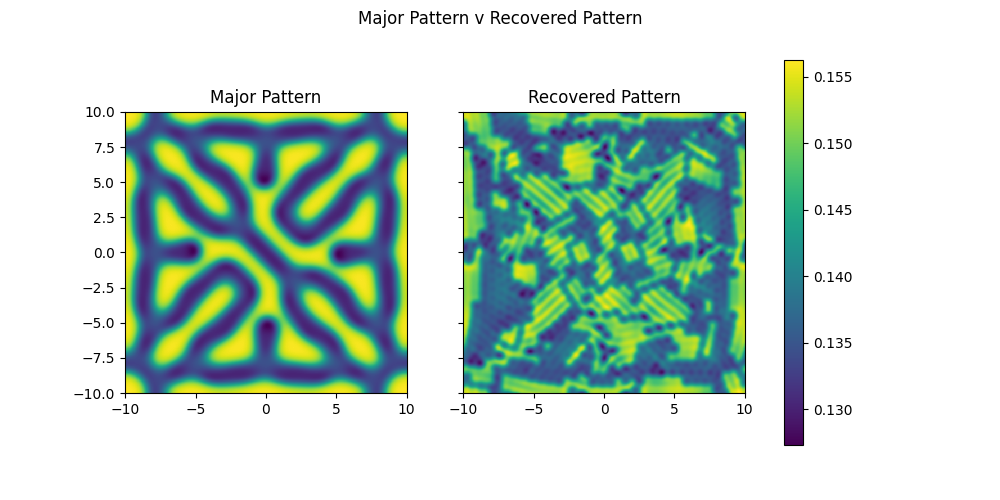
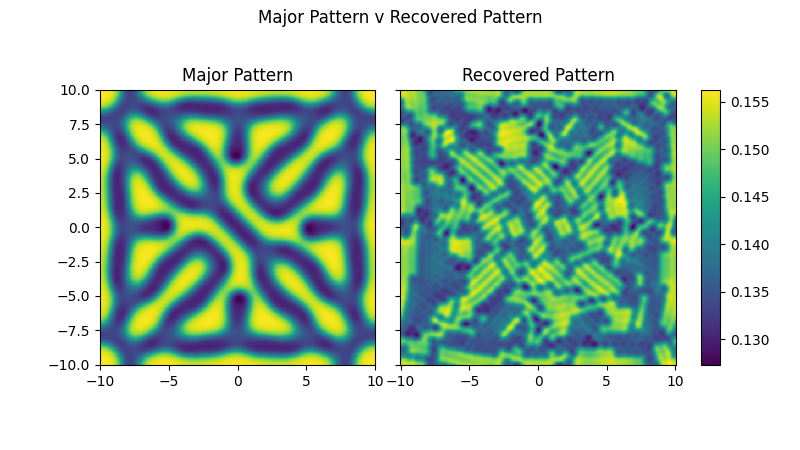
Added a new create_plot function for making plots. used ImageGrid from matplotlib, it's much nicer. Also regenerated a few plots for presentation.

diff --git a/simulator/models/model.py b/simulator/models/model.py
@@ -4,6 +4,8 @@ import pickle
 
 import matplotlib.pyplot as plt
 from matplotlib.animation import FuncAnimation
+from mpl_toolkits.axes_grid1 import ImageGrid
+from matplotlib.colorbar import Colorbar
 
 class Model:
 	def __init__(self, dx=0.04, dy=0.04, dt=1.0, bottom_left=(-5,-5), top_right=(5,5)):
@@ -233,23 +235,35 @@ class Model:
 		if len(plot_funcs) != number_params:
 			plot_funcs = [lambda x:x for x in to_plot]
 		
-		fig, axs = plt.subplots(ncols=number_params)
-		fig.suptitle(f"{to_plot}: 0")
+		# fig, axs = plt.subplots(ncols=number_params, figsize=(8, 4.5))
+		fig = plt.figure(figsize=(8,4.5))
+		axs = ImageGrid(fig, 111,          # as in plt.subplot(111)
+                 nrows_ncols=(1,number_params),
+                 axes_pad=0.25,
+                 share_all=True,
+                 cbar_location="right",
+                 cbar_mode="single",
+                 cbar_size="7%",
+                 cbar_pad=0.15,
+                 )
+		title = ' v '.join(to_plot)
+		fig.suptitle(title)
 
 		zips = zip(axs, plot_funcs, to_plot)
 		
-		# Skip a few because apparently it didn't store the first couple times
-		next(data)
-		next(data)
-		
-		quads = [ax.pcolormesh(x, y, f(next(data)[p])) for ax, f, p in zips]
-		cb = plt.colorbar(quads[0], ax=axs.ravel().tolist(), location='bottom')
-		
+		# # Skip a few because apparently it didn't store the first couple times
+		# next(data)
+		# next(data)
+		curr_frame = next(data)
+		quads = [ax.pcolormesh(x, y, f(curr_frame[p])) for ax, f, p in zips]
+		# cb = plt.colorbar(quads[0], ax=axs.ravel().tolist(), location='bottom')
+		axs[0].cax.cla()
+		cb = Colorbar(axs[0].cax, quads[0])
+		# cb = axs[0].cax.colorbar(quads[0], vmin=0.0, vmax=1.0)
 		[ax.set_box_aspect(1.0) for ax in axs]
-		[ax.set_title(p) for ax,f,p in zips]
 
 		def animate(i):
-			fig.suptitle(f"{to_plot}: {i*frame_skip}")
+			[ax.set_title(f"{p}: {i*frame_skip}") for ax,p in zip(axs, to_plot)]
 			curr_frame = next(data)
 			[q.set_array(f(curr_frame[p])) for q,f,p in zip(quads, plot_funcs, to_plot)]
 			return tuple(quads)
@@ -259,6 +273,45 @@ class Model:
 		anim.save('animations/'+name+'.gif', writer='pillow', fps=30)
 		print("Saved animation: " + name)
 		pass
+	
+	def create_plot(name: str, source: str, to_plot: list, plot_funcs=[]):
+		print(f"Beginning Plotting of '{name}' from final frame of '{source}.dat'")
+		data, x, y = Model.get_last(source)
+		
+		number_params = len(to_plot)
+		if len(plot_funcs) != number_params:
+			plot_funcs = [lambda x:x for x in to_plot]
+		
+		# fig, axs = plt.subplots(ncols=number_params, figsize=(8, 4.5))
+		fig = plt.figure(figsize=(8,4.5))
+		axs = ImageGrid(fig, 111,          # as in plt.subplot(111)
+                 nrows_ncols=(1,number_params),
+                 axes_pad=0.25,
+                 share_all=True,
+                 cbar_location="right",
+                 cbar_mode="single",
+                 cbar_size="7%",
+                 cbar_pad=0.15,
+                 )
+		title = ' v '.join(to_plot)
+		fig.suptitle(title)
+
+		zips = zip(axs, plot_funcs, to_plot)
+		
+		# # Skip a few because apparently it didn't store the first couple times
+		# next(data)
+		# next(data)
+		quads = [ax.pcolormesh(x, y, f(data[p])) for ax, f, p in zips]
+		axs[0].cax.cla()
+		cb = Colorbar(axs[0].cax, quads[0])
+		# cb = axs[0].cax.colorbar(quads[0], vmin=0.0, vmax=1.0)
+		
+		[ax.set_box_aspect(1.0) for ax in axs]
+		[ax.set_title(p) for ax,p in zip(axs, to_plot)]
+		
+		plt.savefig("plots/" + name + ".png")
+		print("Saved figure: " + name)
+		
 	
 	def get_last(source, do_cache=True):
 		"""

diff --git a/mapped-gs.py b/mapped-gs.py
@@ -3,6 +3,8 @@ from simulator.models import *
 import numpy as np
 from scipy import ndimage
 import matplotlib.pyplot as plt
+from mpl_toolkits.axes_grid1 import ImageGrid
+from matplotlib.colorbar import Colorbar
 
 '''
 Creating a regular TP to see what happens
@@ -141,17 +143,15 @@ Also changed the ends points to hopefully get a stronger change.
 # 					   frame_count=1000,
 # 					   frame_skip=10)
 
-# Model.create_animations('mappedgs/parallel_phase_both2', 
-# 					   'data/mappedgs/parallel_phase_fast2',
-# 					   ['Inhibitor', 'Mapped_Feed'],
-# 					   frame_count=1000,
-# 					   frame_skip=10)
+# Model.create_plot('mappedgs/parallel_phase_both2', 
+# 					   'data/mappedgs/parallel_phase_fast2_last',
+# 					   ['Inhibitor', 'Mapped_Feed'],)
 
 '''
 Generate last frame plot of the above model
 '''
 
-original_pattern, x, y = Model.get_last("data/mappedgs/parallel_phase_fast2")
+original_pattern, x, y = Model.get_last("data/mappedgs/parallel_phase_fast")
 
 # Perform a Gaussian blur and then 
 # average over an area of n*n cells
@@ -161,18 +161,29 @@ recovered_pattern = original_pattern['Inhibitor']
 recovered_pattern = ndimage.convolve(recovered_pattern, stencil, mode='wrap')
 recovered_pattern = ndimage.gaussian_filter(recovered_pattern, 5.5, mode='wrap')
 
-fig, ax = plt.subplots(nrows=1, ncols=2, figsize=(10, 5), sharey=True)
+# fig, ax = plt.subplots(nrows=1, ncols=2, figsize=(10, 5), sharey=True)
+
+fig = plt.figure(figsize=(8,4.5))
+axs = ImageGrid(fig, 111,          # as in plt.subplot(111)
+			nrows_ncols=(1,2),
+			axes_pad=0.25,
+			share_all=True,
+			cbar_location="right",
+			cbar_mode="single",
+			cbar_size="7%",
+			cbar_pad=0.25,
+			)
 
 fig.suptitle("Major Pattern v Recovered Pattern")
-ax[0].pcolormesh(x,y,original_pattern['Mapped_Kill'])
-ax[0].set_title("Major Pattern")
-quad=ax[1].pcolormesh(x,y,recovered_pattern)
-ax[1].set_title("Recovered Pattern")
+quad0=axs[0].pcolormesh(x,y,original_pattern['Mapped_Kill'])
+axs[0].set_title("Major Pattern")
+quad1=axs[1].pcolormesh(x,y,recovered_pattern)
+axs[1].set_title("Recovered Pattern")
 
+axs[0].cax.cla()
+cb = Colorbar(axs[0].cax, quad1)
+# cb2 = Colorbar(axs[1].cax, quad1)
 
-ax[0].set_box_aspect(1.0)
-ax[1].set_box_aspect(1.0)
+[ax.set_box_aspect(1.0) for ax in axs]
 
-cb = fig.colorbar(quad, ax=ax.ravel().tolist(), location='bottom')
-plt.show()
-fig.savefig("plots/major_v_recovered2_gauss+averaged.png")
+fig.savefig("plots/major_v_recovered_gauss+averaged.png")

diff --git a/varied-gs.py b/varied-gs.py
@@ -3,6 +3,8 @@ import numpy as np
 from scipy import ndimage
 
 import matplotlib.pyplot as plt
+from mpl_toolkits.axes_grid1 import ImageGrid
+from matplotlib.colorbar import Colorbar
 
 # variedgs = VariedGS(dt=1.0, bottom_left=(-5,-5), top_right=(5,5))
 # variedgs.set_activator(np.ones((variedgs.x_count, variedgs.y_count)))
@@ -81,25 +83,34 @@ nested_pattern, _, _ = Model.get_last("data/variedgs/variedgs-nested3")
 
 # Perform a Gaussian blur and then 
 # average over an area of n*n cells
-n = 10
+n = 15
 stencil = np.ones((n,n))/(n*n)
 recovered_pattern = nested_pattern['Inhibitor']
-recovered_pattern = 1 - recovered_pattern
-recovered_pattern = ndimage.convolve(recovered_pattern, stencil, mode='wrap')
-recovered_pattern = ndimage.gaussian_filter(recovered_pattern, 5.5, mode='wrap')
+# recovered_pattern = 1 - recovered_pattern
+# recovered_pattern = ndimage.convolve(recovered_pattern, stencil, mode='wrap')
+# recovered_pattern = ndimage.gaussian_filter(recovered_pattern, 5.5, mode='wrap')
 
-fig, ax = plt.subplots(nrows=1, ncols=2, figsize=(10, 5), sharey=True)
+fig = plt.figure(figsize=(8,4.5))
+axs = ImageGrid(fig, 111,          # as in plt.subplot(111)
+			nrows_ncols=(1,2),
+			axes_pad=0.25,
+			share_all=True,
+			cbar_location="right",
+			cbar_mode="single",
+			cbar_size="7%",
+			cbar_pad=0.25,
+			)
 
 fig.suptitle("Original Pattern v Recovered Pattern")
-ax[0].pcolormesh(x,y,original_pattern['Inhibitor'])
-ax[0].set_title("Original Pattern")
-quad=ax[1].pcolormesh(x,y,recovered_pattern)
-ax[1].set_title("Recovered Pattern")
+quad0=axs[0].pcolormesh(x,y,original_pattern['Inhibitor'])
+axs[0].set_title("Original Pattern")
+quad1=axs[1].pcolormesh(x,y,recovered_pattern)
+axs[1].set_title("Recovered Pattern")
 
+axs[0].cax.cla()
+cb = Colorbar(axs[0].cax, quad1)
+# cb2 = Colorbar(axs[1].cax, quad1)
 
-ax[0].set_box_aspect(1.0)
-ax[1].set_box_aspect(1.0)
+[ax.set_box_aspect(1.0) for ax in axs]
 
-cb = fig.colorbar(quad, ax=ax.ravel().tolist())
-plt.show()
-fig.savefig("plots/original_v_recovered_averaged+gauss_inverted.png")
+fig.savefig("plots/varied-original_v_recovered.png")
